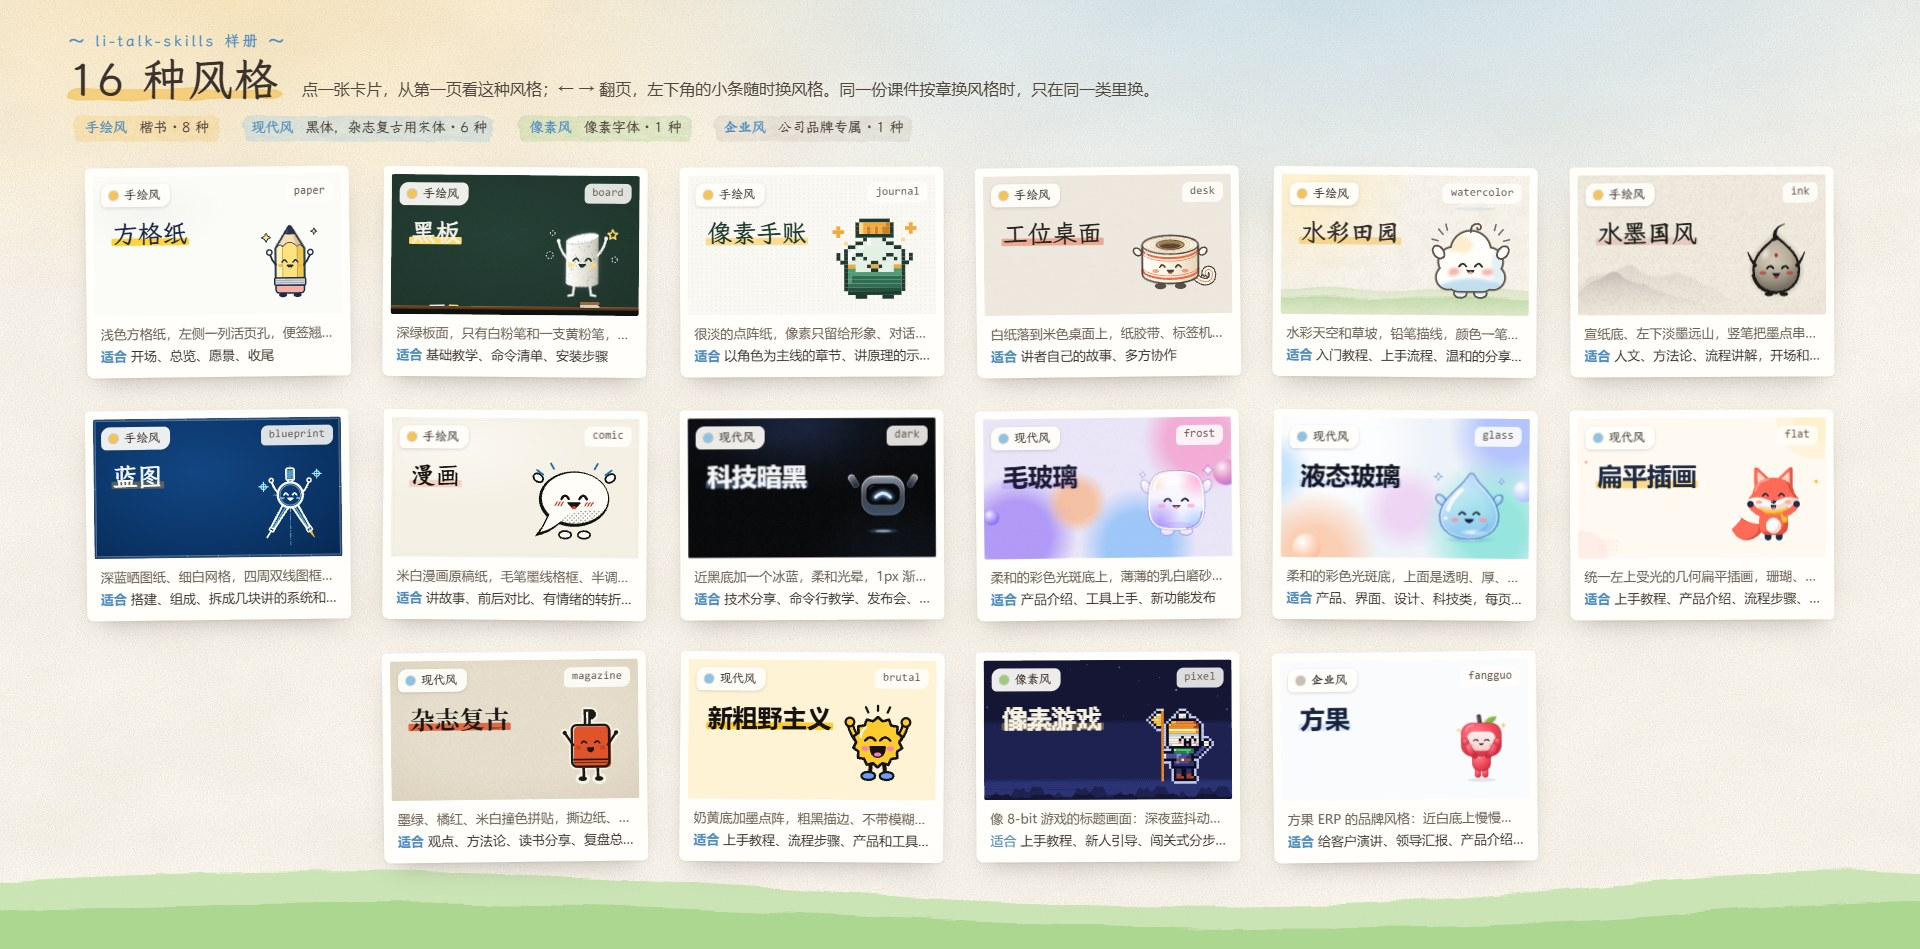
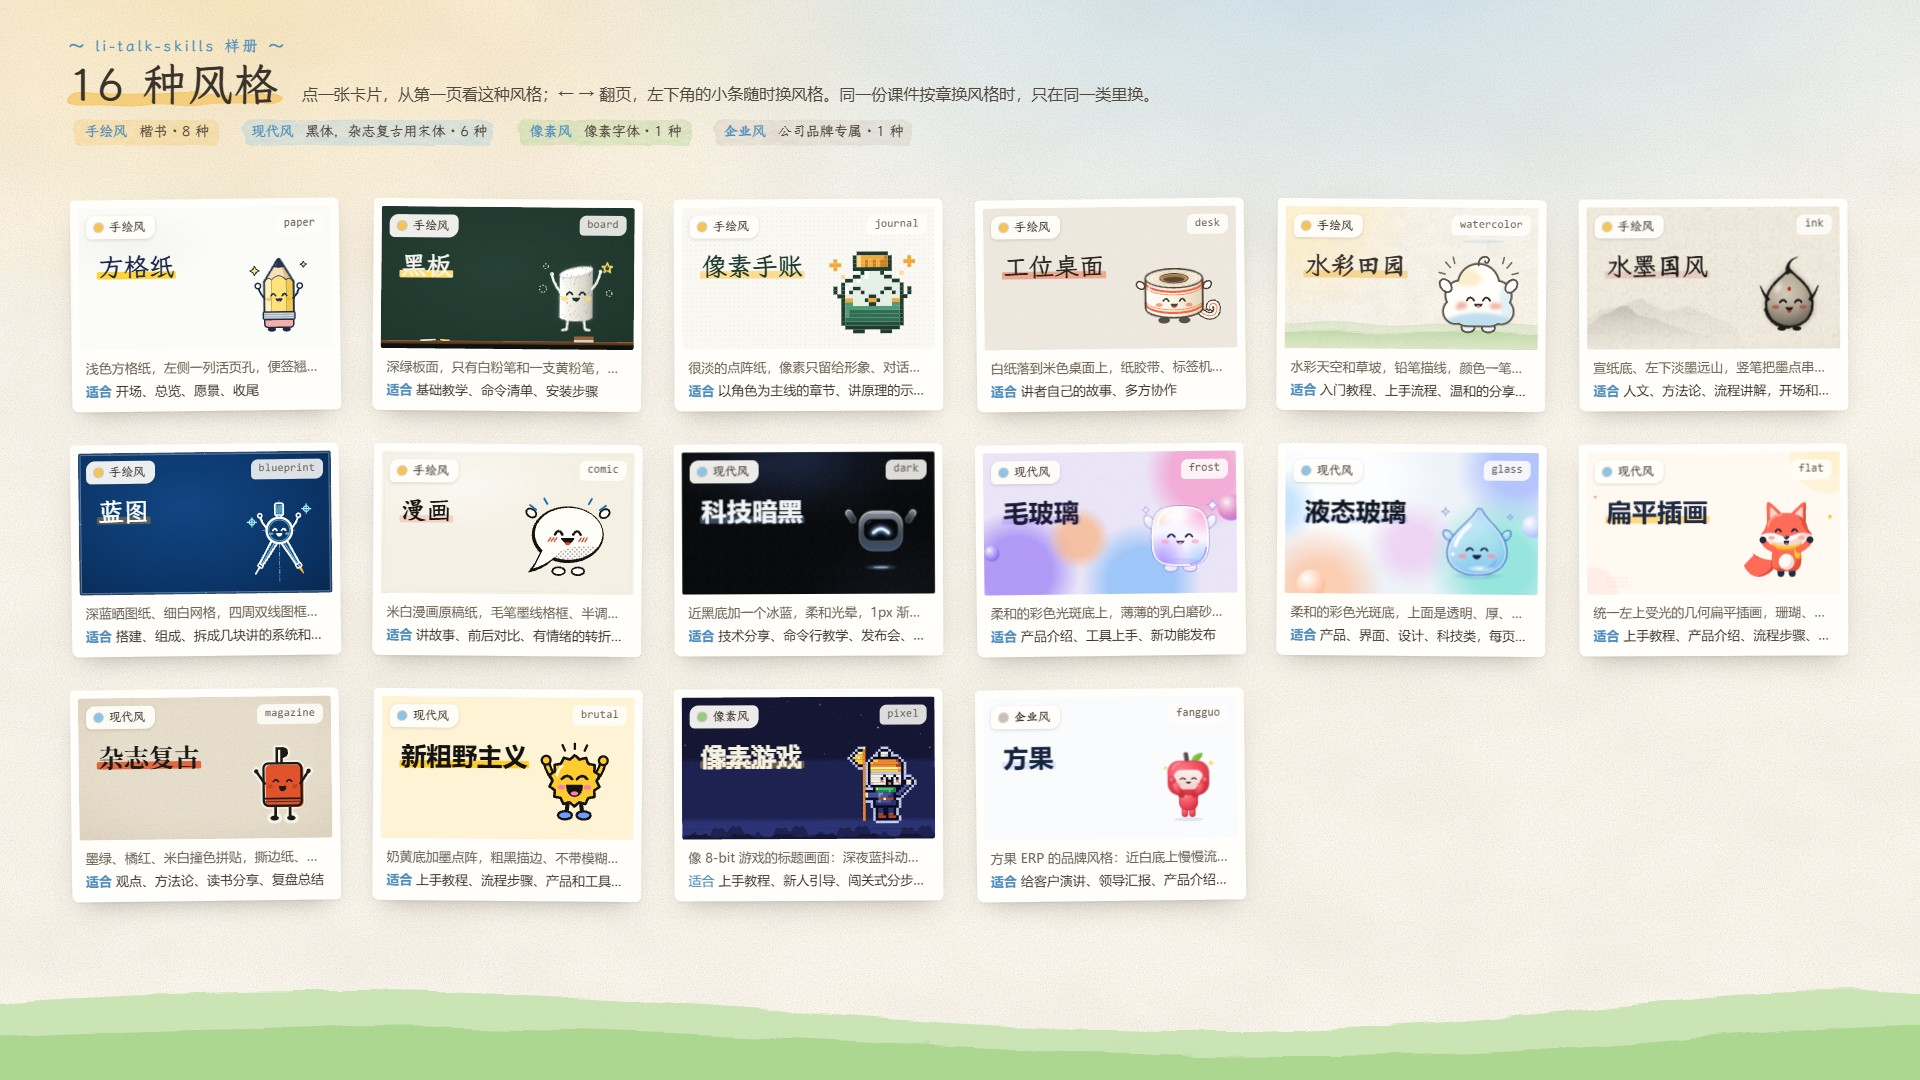
样册首页最后一行靠左；换上完整的 1920×1080 样册截图（README、教程、网站共用），教程封面和第 13 页的截图比例改成 16:9

Changed region(s): [[0.0312, 0.0611, 0.9688, 0.9168]]

diff --git a/skills/li-talk-skills/template/gallery.html b/skills/li-talk-skills/template/gallery.html
@@ -67,7 +67,7 @@
    整页是水彩田园的样子：水彩纸底、上方淡淡的天空蓝和暖阳、下方一条草坡，标题用楷体；
    总览本身套 data-scene="watercolor"，借用水彩田园的颜料遮罩（--wc-pad1、--wc-pad2、--wc-blob、--wc-brush1）和纸纹（--scene-bg）。
    卡片套自己风格的 data-scene，上半截是缩小的 1920×1080 舞台（这种风格的背景层、风格名、形象），下半截是一张纸，写「样子」和「适合讲什么」。
-   卡片铺满整个窗口（四周留安全距离），列数由脚本按窗口挑：让卡片尽量大、一屏放下（16 种在 1920×1080 上是 6 列 3 行，最后一行居中）。
+   卡片铺满整个窗口（四周留安全距离），列数由脚本按窗口挑：让卡片尽量大、一屏放下（16 种在 1920×1080 上是 6 列 3 行，最后一行靠左）。
    类名用 sv- 开头，免得撞上风格自己的类名（液态玻璃用了 gl-） */
 .sv-home{position:fixed;inset:0;z-index:1000;overflow:auto;overscroll-behavior:contain;color:#3A322B;background:var(--scene-bg,#FBF7EE);
   font:400 15px/1.6 "PingFang SC","Microsoft YaHei UI","Microsoft YaHei",system-ui,sans-serif;-webkit-font-smoothing:antialiased}
@@ -89,7 +89,7 @@
 .sv-chip b{font-weight:700;color:#3A322B}
 .sv-f-hand{--fc:#F4C35A}.sv-f-modern{--fc:#8EC3E6}.sv-f-pixel{--fc:#9CCB7E}.sv-f-corp{--fc:#C9BFB2}
 /* 卡片：像一张张夹在画板上的画纸，微微歪一点，鼠标移上去抬起来摆正 */
-.sv-grid{display:flex;flex-wrap:wrap;justify-content:center;gap:var(--gap)}
+.sv-grid{display:flex;flex-wrap:wrap;justify-content:flex-start;gap:var(--gap)}
 .sv-card{position:relative;display:flex;flex-direction:column;flex:none;width:var(--cw,300px);min-width:0;padding:8px 8px 0;text-decoration:none;
   background:#FFFEFA;box-shadow:0 1px 2px rgba(58,50,43,.08),0 12px 26px -12px rgba(58,50,43,.36);border-radius:4px 6px 5px 7px;
   transition:transform .3s cubic-bezier(.3,1.5,.5,1),box-shadow .2s}
@@ -300,7 +300,7 @@ window.LI_TALK_STYLES = [
     try { box.focus({ preventScroll: true }); } catch (e) { /* 老浏览器不认参数 */ }
 
     // 卡片铺满整个窗口：在 3 到 8 列里挑一个让卡片最大、又一屏放得下的列数（16 种在 1920×1080 上是 6 列 3 行），
-    // 每行居中，整块在标题下面的空间里上下居中；算出来太小（手机、很矮的窗口）就退回 CSS 按宽度排的列数，允许滚动
+    // 整块水平居中、最后一行靠左，整块在标题下面的空间里上下居中；算出来太小（手机、很矮的窗口）就退回 CSS 按宽度排的列数，允许滚动
     var layout = function () {
       var cards = grid.children, n = cards.length;
       if (!n) return;

diff --git a/skills/li-talk-skills/template/tour/slides/ch2.js b/skills/li-talk-skills/template/tour/slides/ch2.js
@@ -165,7 +165,7 @@ Deck.add({
   scene: 'watercolor',
   title: '样册：全部风格一屏看完',
   html: `
-    <figure class="abs shot" data-beat="0" data-src="素材/hero.jpg" data-caption="真图：样册首页，点一张卡片就从第一页看" style="left:120px;top:250px;width:860px;--ar:2040/1620;--r:-.8deg"></figure>
+    <figure class="abs shot" data-beat="0" data-src="素材/hero.jpg" data-caption="真图：样册首页，点一张卡片就从第一页看" style="left:120px;top:300px;width:900px;--ar:16/9;--r:-.8deg"></figure>
     <div class="wc-paper abs p13-n" data-beat="1" data-mascot="1" data-mascot-side="left" style="left:1260px;top:260px;width:540px;--r:-1deg"><h3><i class="wc-no">1</i>点一张卡片</h3><p>从第一页看这种风格的样板</p></div>
     <div class="wc-paper abs p13-n" data-beat="2" style="left:1260px;top:500px;width:540px;--r:.8deg"><h3><i class="wc-no">2</i>左下角的小条</h3><p>随时换一种风格看</p></div>
     <div class="wc-paper abs p13-n" data-beat="3" data-mascot="3" data-mascot-side="left" data-mascot-pose="happy" style="left:1260px;top:740px;width:540px;--r:-.6deg"><h3><i class="wc-no">3</i>想再看</h3><p>对 AI 说「打开样册」</p></div>

diff --git a/skills/li-talk-skills/template/tour/slides/ch1.js b/skills/li-talk-skills/template/tour/slides/ch1.js
@@ -18,7 +18,7 @@ Deck.add({
     <p class="wc-title abs p01-h" data-beat="0" style="left:146px;top:262px">你专心讲好内容，<br>其他交给 <em class="key">AI</em></p>
     <i class="wc-wash abs" data-beat="0" style="left:136px;top:548px;width:860px;height:80px"></i>
     <p class="abs p01-sub" data-beat="0" style="left:160px;top:556px">版式、风格、动效都交给 AI，你只管讲</p>
-    <figure class="abs shot p01-shot" data-beat="0" data-src="素材/hero.jpg" data-caption="真图：样册首页，16 种风格一屏看完" style="left:1090px;top:262px;width:710px;--ar:2040/1620;--r:1deg"></figure>
+    <figure class="abs shot p01-shot" data-beat="0" data-src="素材/hero.jpg" data-caption="真图：样册首页，16 种风格一屏看完" style="left:1060px;top:330px;width:740px;--ar:16/9;--r:1deg"></figure>
     <span class="tag abs p01-fold" data-beat="0" data-recede="off" style="left:1560px;top:176px">专注分享本身</span>
     <div class="wc-paper wc-plate abs p01-plate" data-beat="1" data-mascot="1" data-mascot-side="bottom" data-mascot-x=".7" data-mascot-pose="happy" style="left:150px;top:690px;--r:-1deg">
       <p>适合 <b>分享 · 培训 · 汇报 · 演讲</b></p>
